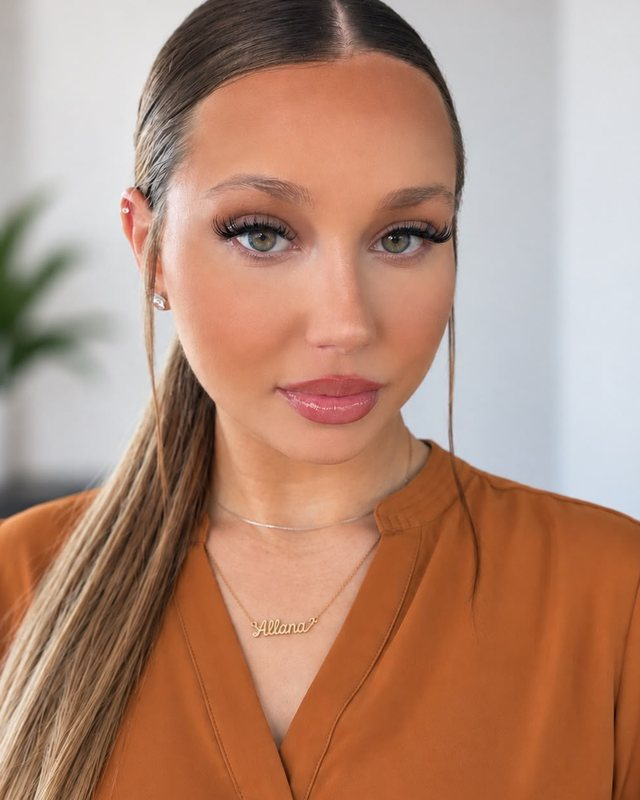
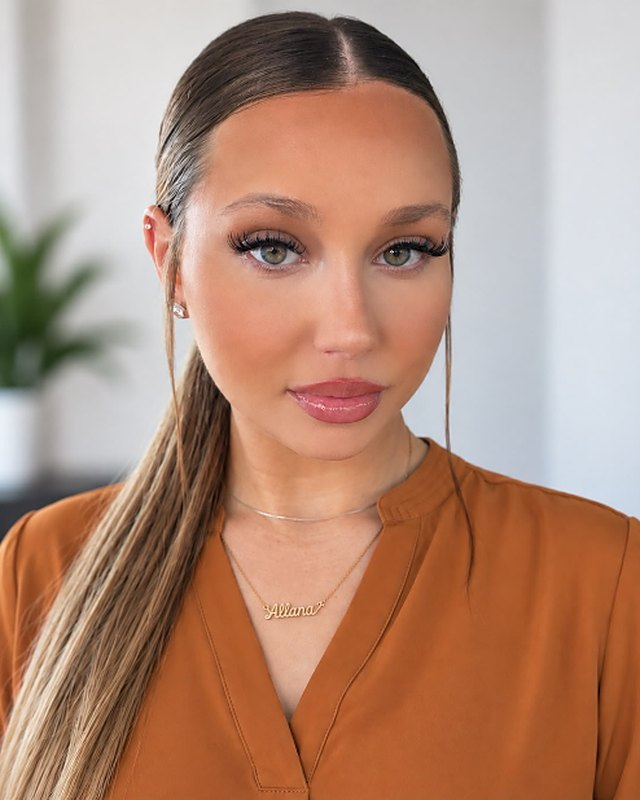
Redesign Meet Our Team as uniform blurb-only cards
- Four equal cards (4 / 2x2 / 1 per row) that align top and bottom
- Same inset 4:5 photo frame for every member; new uncropped Allana photo
- Short 2-sentence blurbs replace long bios, quotes and tags
- More space below the section heading

Claude-Session: https://claude.ai/code/session_013MNDr7w2ogv7Zoz3Ey5B3J

diff --git a/app/about/page.tsx b/app/about/page.tsx
@@ -1,5 +1,6 @@
 import type { Metadata } from "next";
 import Link from "next/link";
+import TeamSection, { type TeamMember } from "./TeamSection";
 
 export const metadata: Metadata = {
   title: "About Us — Meet Our Team",
@@ -11,63 +12,34 @@ export const metadata: Metadata = {
 const PHONE_MAIN = "941.225.2335";
 const PHONE_MAIN_TEL = "tel:+19412252335";
 
-type TeamMember = {
-  name: string;
-  role: string;
-  photo: string;
-  highlights: string[];
-  summary: string;
-  bio: string[];
-};
-
 const TEAM: TeamMember[] = [
   {
     name: "Cody Lamb",
     role: "Licensed Insurance Agent",
     photo: "/team/cody-lamb.jpg",
-    highlights: ["Sarasota, FL"],
-    summary:
-      "I want every client who walks through our door to feel like they’re working with a neighbor — not a call center.",
-    bio: [
-      "My goal is to make insurance simple: listen first, explain your options in plain language, and help you find coverage that fits your life and your budget.",
-    ],
+    blurb:
+      "I want every client to feel like they’re working with a neighbor, not a call center. I listen first, explain your options in plain language, and help you find coverage that fits your life and your budget.",
   },
   {
     name: "Latoya",
     role: "Licensed Insurance Agent",
     photo: "/team/latoya.jpg",
-    highlights: ["15 years of experience", "Family focused"],
-    summary:
-      "Insurance is about much more than policies and premiums — it’s about people, families, and community.",
-    bio: [
-      "With 15 years of experience as a Licensed Insurance Agent, I have had the privilege of helping countless families find meaningful savings while making sure they have the protection they need when life happens.",
-      "What I value most is building lasting relationships with my clients and being someone they can trust when making important decisions about their insurance. I approach my work with honesty, integrity, and genuine care — listening to each client’s needs, providing guidance they can understand, and helping them feel confident about the coverage they have in place.",
-      "For me, being an insurance agent is about serving my community, protecting what matters most, and building relationships that last.",
-    ],
+    blurb:
+      "With 15 years as a licensed agent, I’ve helped countless families find meaningful savings without sacrificing protection. To me, insurance is about people, not just policies — and I’m here to be someone you can trust.",
   },
   {
     name: "Josh",
     role: "Licensed Insurance Agent",
     photo: "/team/josh.jpg",
-    highlights: ["5+ years of experience", "Hablamos Español"],
-    summary:
-      "Guided by the Golden Rule, I treat every client the way I’d want to be treated.",
-    bio: [
-      "With over five years of experience in the insurance industry, my passion is simple: serving people with honesty, clarity, and genuine care.",
-      "I’m dedicated to helping families and individuals find the right coverage at a price that fits their budget. Having assisted hundreds of clients in both English and Spanish, I take pride in making insurance straightforward, stress-free, and tailored to what matters most to you.",
-    ],
+    blurb:
+      "With 5+ years in insurance, I follow the Golden Rule: treat every client the way I’d want to be treated. I’ve helped hundreds of families, in English and Spanish, find the right coverage at a price that fits.",
   },
   {
     name: "Allana",
     role: "Licensed Insurance Agent",
     photo: "/team/allana.jpg",
-    highlights: ["Licensed in FL & GA", "Since 2023"],
-    summary:
-      "My goal is to make the process easy and help every client feel protected and taken care of.",
-    bio: [
-      "Since 2023, I’ve enjoyed helping people navigate their insurance options and find coverage that works for them.",
-      "As a licensed agent in Florida and Georgia, I make it a priority to answer every question along the way, so you always know what you’re getting.",
-    ],
+    blurb:
+      "Since 2023, I’ve helped clients navigate their options and find coverage that truly works for them. Licensed in Florida and Georgia, I keep the process easy, answer every question, and make sure you feel protected.",
   },
 ];
 
@@ -162,82 +134,7 @@ export default function About() {
         </section>
 
         {/* Team */}
-        <section className="py-20 md:py-28" aria-labelledby="team-heading">
-          <div className="max-w-6xl mx-auto px-5">
-            <div className="max-w-xl mb-14">
-              <div className="section-rule" />
-              <h2 id="team-heading" className="font-display text-3xl md:text-4xl font-bold text-navy-900 mb-4">
-                Meet Our Team
-              </h2>
-              <p className="text-navy-600 font-body leading-relaxed">
-                Licensed, experienced, and genuinely invested in the people we serve. Here&#39;s who
-                you&#39;ll be working with.
-              </p>
-            </div>
-
-            <div className="grid sm:grid-cols-2 lg:grid-cols-4 gap-6 items-start">
-              {TEAM.map((m, i) => (
-                <article
-                  key={m.name}
-                  className="bg-white rounded-2xl border border-navy-100 overflow-hidden shadow-sm"
-                  aria-labelledby={`member-${i}`}
-                >
-                  {/* Every photo is the same 4:5 frame, regardless of bio length */}
-                  <div className="aspect-[4/5] relative bg-navy-100 overflow-hidden">
-                    {/* eslint-disable-next-line @next/next/no-img-element */}
-                    <img
-                      src={m.photo}
-                      alt={`${m.name}, ${m.role} at Lamb Insurance Agency`}
-                      className="absolute inset-0 w-full h-full object-cover object-top"
-                      loading={i < 2 ? "eager" : "lazy"}
-                    />
-                  </div>
-
-                  <div className="p-6">
-                    <h3 id={`member-${i}`} className="font-display text-2xl font-bold text-navy-900">
-                      {m.name}
-                    </h3>
-                    <p className="text-sage-600 text-xs font-body font-bold uppercase tracking-widest mt-1 mb-4">
-                      {m.role}
-                    </p>
-
-                    <ul className="flex flex-wrap content-start gap-1.5 mb-4 sm:min-h-[3.25rem]" aria-label={`${m.name}'s highlights`}>
-                      {m.highlights.map((h) => (
-                        <li
-                          key={h}
-                          className="text-[11px] font-body font-semibold text-navy-700 bg-sage-50 border border-sage-200 rounded-full px-2.5 py-0.5"
-                        >
-                          {h}
-                        </li>
-                      ))}
-                    </ul>
-
-                    <p className="font-display italic text-navy-700 leading-snug border-l-[3px] border-sage-300 pl-3 mb-5 sm:min-h-[7rem]">
-                      &ldquo;{m.summary}&rdquo;
-                    </p>
-
-                    {/* Full bio tucked away so long and short bios keep cards the same size */}
-                    <details className="group border-t border-navy-100 pt-4">
-                      <summary className="cursor-pointer list-none flex items-center justify-between text-sm font-body font-semibold text-sage-600 hover:text-sage-700 [&::-webkit-details-marker]:hidden">
-                        <span className="group-open:hidden">Read {m.name.split(" ")[0]}&#39;s story</span>
-                        <span className="hidden group-open:inline">Show less</span>
-                        <span className="text-lg leading-none" aria-hidden="true">
-                          <span className="group-open:hidden">+</span>
-                          <span className="hidden group-open:inline">−</span>
-                        </span>
-                      </summary>
-                      <div className="space-y-3 mt-4 text-navy-600 font-body text-sm leading-relaxed">
-                        {m.bio.map((p, j) => (
-                          <p key={j}>{p}</p>
-                        ))}
-                      </div>
-                    </details>
-                  </div>
-                </article>
-              ))}
-            </div>
-          </div>
-        </section>
+        <TeamSection team={TEAM} />
 
         {/* CTA */}
         <section className="bg-navy-900" aria-labelledby="cta-heading">

diff --git a/app/about/TeamSection.tsx b/app/about/TeamSection.tsx
@@ -1,0 +1,53 @@
+export type TeamMember = {
+  name: string;
+  role: string;
+  photo: string;
+  /** Focal point for the 4:5 crop, e.g. "50% 25%" */
+  focus?: string;
+  /** Short card blurb: 2–3 sentences, ~35–50 words */
+  blurb: string;
+};
+
+export default function TeamSection({ team }: { team: TeamMember[] }) {
+  return (
+    <section className="py-20 md:py-28" aria-labelledby="team-heading">
+      <div className="max-w-6xl mx-auto px-5">
+        <div className="max-w-xl mb-16 md:mb-20">
+          <div className="section-rule" />
+          <h2 id="team-heading" className="font-display text-3xl md:text-4xl font-bold text-navy-900 mb-3">
+            Meet Our Team
+          </h2>
+          <p className="text-navy-500 font-body leading-relaxed">
+            The licensed agents you&#39;ll work with — right here in Sarasota.
+          </p>
+        </div>
+
+        <ul className="grid grid-cols-1 sm:grid-cols-2 lg:grid-cols-4 gap-6" role="list">
+          {team.map((m) => (
+            <li key={m.name} className="h-full w-full max-w-xs mx-auto sm:max-w-none">
+              <article className="h-full flex flex-col bg-white rounded-2xl border border-navy-100 shadow-sm p-4">
+                <div className="aspect-[4/5] bg-navy-50 rounded-xl overflow-hidden">
+                  {/* eslint-disable-next-line @next/next/no-img-element */}
+                  <img
+                    src={m.photo}
+                    alt={`${m.name}, ${m.role} at Lamb Insurance Agency`}
+                    className="w-full h-full object-cover"
+                    style={{ objectPosition: m.focus ?? "50% 25%" }}
+                  />
+                </div>
+
+                <div className="flex flex-col flex-1 px-2 pt-5 pb-2">
+                  <h3 className="font-display text-xl font-bold text-navy-900 leading-tight">{m.name}</h3>
+                  <p className="text-sage-600 text-[11px] font-body font-bold uppercase tracking-widest mt-1.5">
+                    {m.role}
+                  </p>
+                  <p className="text-navy-600 font-body text-sm leading-relaxed mt-4">{m.blurb}</p>
+                </div>
+              </article>
+            </li>
+          ))}
+        </ul>
+      </div>
+    </section>
+  );
+}
